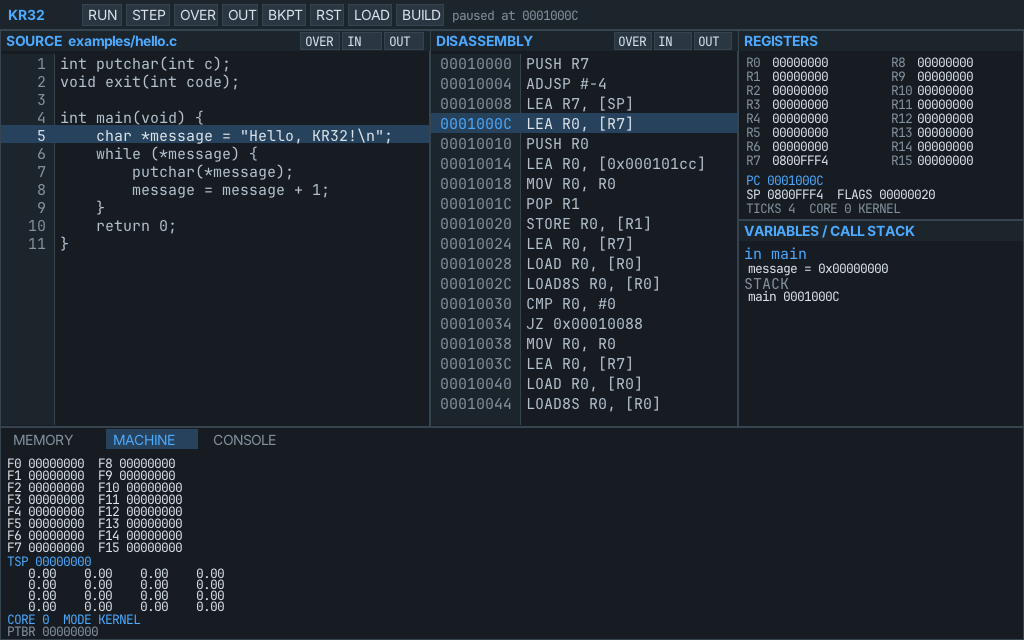
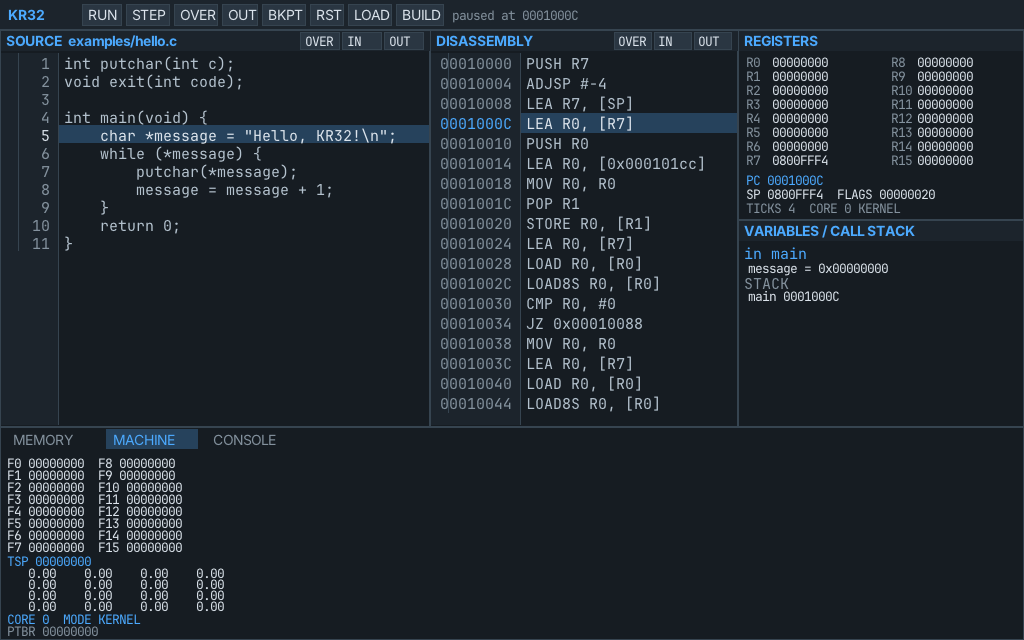
UI: match source gutter treatment in disassembly

Changed region(s): [[0.0, 0.0938, 0.375, 0.4062], [0.4062, 0.1562, 0.5312, 0.2188], [0.0938, 0.3125, 0.1875, 0.375]]

diff --git a/src/ui/debugger_ui.cpp b/src/ui/debugger_ui.cpp
@@ -29,8 +29,10 @@ constexpr Color kAccent{76, 170, 255, 255};
 constexpr Color kBad{255, 104, 104, 255};
 
 constexpr int kToolbarHeight = 30;
-constexpr int kSourceGutter = 54;
+constexpr int kSourceGutter = 58;
+constexpr int kSourceBreakGutter = 18;
 constexpr int kAsmGutter = 90;
+constexpr int kAsmBreakGutter = 18;
 
 std::string hex(std::uint32_t value, int digits) {
     char buffer[24] = {};
@@ -397,12 +399,16 @@ void DebuggerUI::draw_source(Canvas& canvas, Rect rect) {
             canvas.fill(Rect{rect.x + 1, y - 1, rect.width - 2, line_height},
                         Color{38, 66, 92, 255});
         }
+        canvas.fill(Rect{rect.x + 1, y - 1, kSourceGutter - 1, line_height},
+                    hover_source_ && hover_row_ == row ? Color{32, 46, 58, 255} : kPanelAlt);
+        canvas.fill(Rect{rect.x + kSourceBreakGutter, y - 1, 1, line_height}, kBorder);
+        canvas.fill(Rect{rect.x + kSourceGutter, y - 1, 1, line_height}, kBorder);
         std::uint32_t address = 0;
         const bool has_breakpoint =
             source_line_to_address(line_number, address) &&
             session_.breakpoints().find(address) != session_.breakpoints().end();
         if (has_breakpoint) {
-            canvas.fill(Rect{rect.x + 8, y + 5, 7, 8}, kBad);
+            canvas.fill(Rect{rect.x + 7, y + 5, 7, 8}, kBad);
         }
         const std::string number = std::to_string(line_number);
         const int number_width = Canvas::text_width(number, FontRole::Mono);
@@ -450,6 +456,11 @@ void DebuggerUI::draw_disassembly(Canvas& canvas, Rect rect) {
             canvas.fill(Rect{rect.x + 1, y - 1, rect.width - 2, line_height},
                         Color{38, 66, 92, 255});
         }
+        canvas.fill(Rect{rect.x + 1, y - 1, kAsmGutter - 1, line_height},
+                    !hover_source_ && hover_row_ == row ? Color{32, 46, 58, 255}
+                                                        : kPanelAlt);
+        canvas.fill(Rect{rect.x + kAsmBreakGutter, y - 1, 1, line_height}, kBorder);
+        canvas.fill(Rect{rect.x + kAsmGutter, y - 1, 1, line_height}, kBorder);
         std::uint8_t bytes[8] = {};
         bool read_ok = true;
         for (int index = 0; index < 8; ++index) {
@@ -497,8 +508,7 @@ void DebuggerUI::draw_disassembly(Canvas& canvas, Rect rect) {
             canvas.fill(Rect{rect.x + 6, y + 5, 7, 8}, kBad);
         }
         canvas.text(rect.x + kAsmGutter - 8 - address_width, y, hex(address, 8),
-                    address == pc ? kAccent : kDim, FontRole::Mono);
-        canvas.text(instruction_x, y,
+                    address == pc ? kAccent : kDim, FontRole::Mono);        canvas.text(instruction_x, y,
                     trim_to(text, static_cast<std::size_t>((rect.x + rect.width - instruction_x) / 8)),
                     address == pc ? kText : Color{180, 194, 206, 255}, FontRole::Mono);
     }

diff --git a/implementation.md b/implementation.md
@@ -3,7 +3,7 @@
 > **Status:** active. This file is the working checklist, milestone gate, dependency
 > record, and running log for KR32.
 >
-> **Last updated:** 2026-11-02 07:16 -08:00
+> **Last updated:** 2026-11-02 08:05 -08:00
 >
 > **Related:** [KR32-plan.md](KR32-plan.md) (architecture and decisions),
 > [docs/isa-v1.md](docs/isa-v1.md) (encoding), [kr16-final-plan.md](kr16-final-plan.md)
@@ -817,6 +817,11 @@ Newest entries at the bottom. Use the local time zone.
       line/address. Run-to uses a temporary breakpoint and preserves existing
       user breakpoints. Verified live against `examples/hello.c` (line 5
       breakpoint and Run to line 8).
+- **2026-11-02 08:05 -08:00** — Gave the disassembly pane the same two-column
+      gutter treatment as the source pane: a dedicated breakpoint column plus a
+      right-aligned address column with separators, gutter hover, left-click
+      breakpoint toggling, and the same right-click Toggle/Run-to menu. Verified
+      live with a disassembly gutter right-click and Run to address menu.
 
 ## 10. Updating this file
 

diff --git a/docs/ui.md b/docs/ui.md
@@ -10,6 +10,8 @@ directly.
 
 ![KR32 gutter menu](screenshots/m6-gutter-menu.png)
 
+![KR32 disassembly gutter menu](screenshots/m6-disasm-gutter-menu.png)
+
 ![KR32 run to line](screenshots/m6-run-to.png)
 
 ## Architecture
@@ -41,9 +43,8 @@ directly.
 
 ## Gutter behavior
 
-- Source gutter: breakpoint square, right-aligned line number, separator; source
-  text starts after the gutter.
-- Disassembly gutter: breakpoint square, right-aligned address, separator.
+- Source gutter: breakpoint square column, right-aligned line-number column, separators; source text starts after the gutter.
+- Disassembly gutter: breakpoint square column, right-aligned address column, separators; the instruction column starts after the gutter.
 - Left-click a gutter row toggles a breakpoint at that line/instruction.
 - Right-click a source or disassembly gutter row opens the KR16-style menu:
   **Toggle breakpoint** and **Run to line N** / **Run to 0xADDR**.
